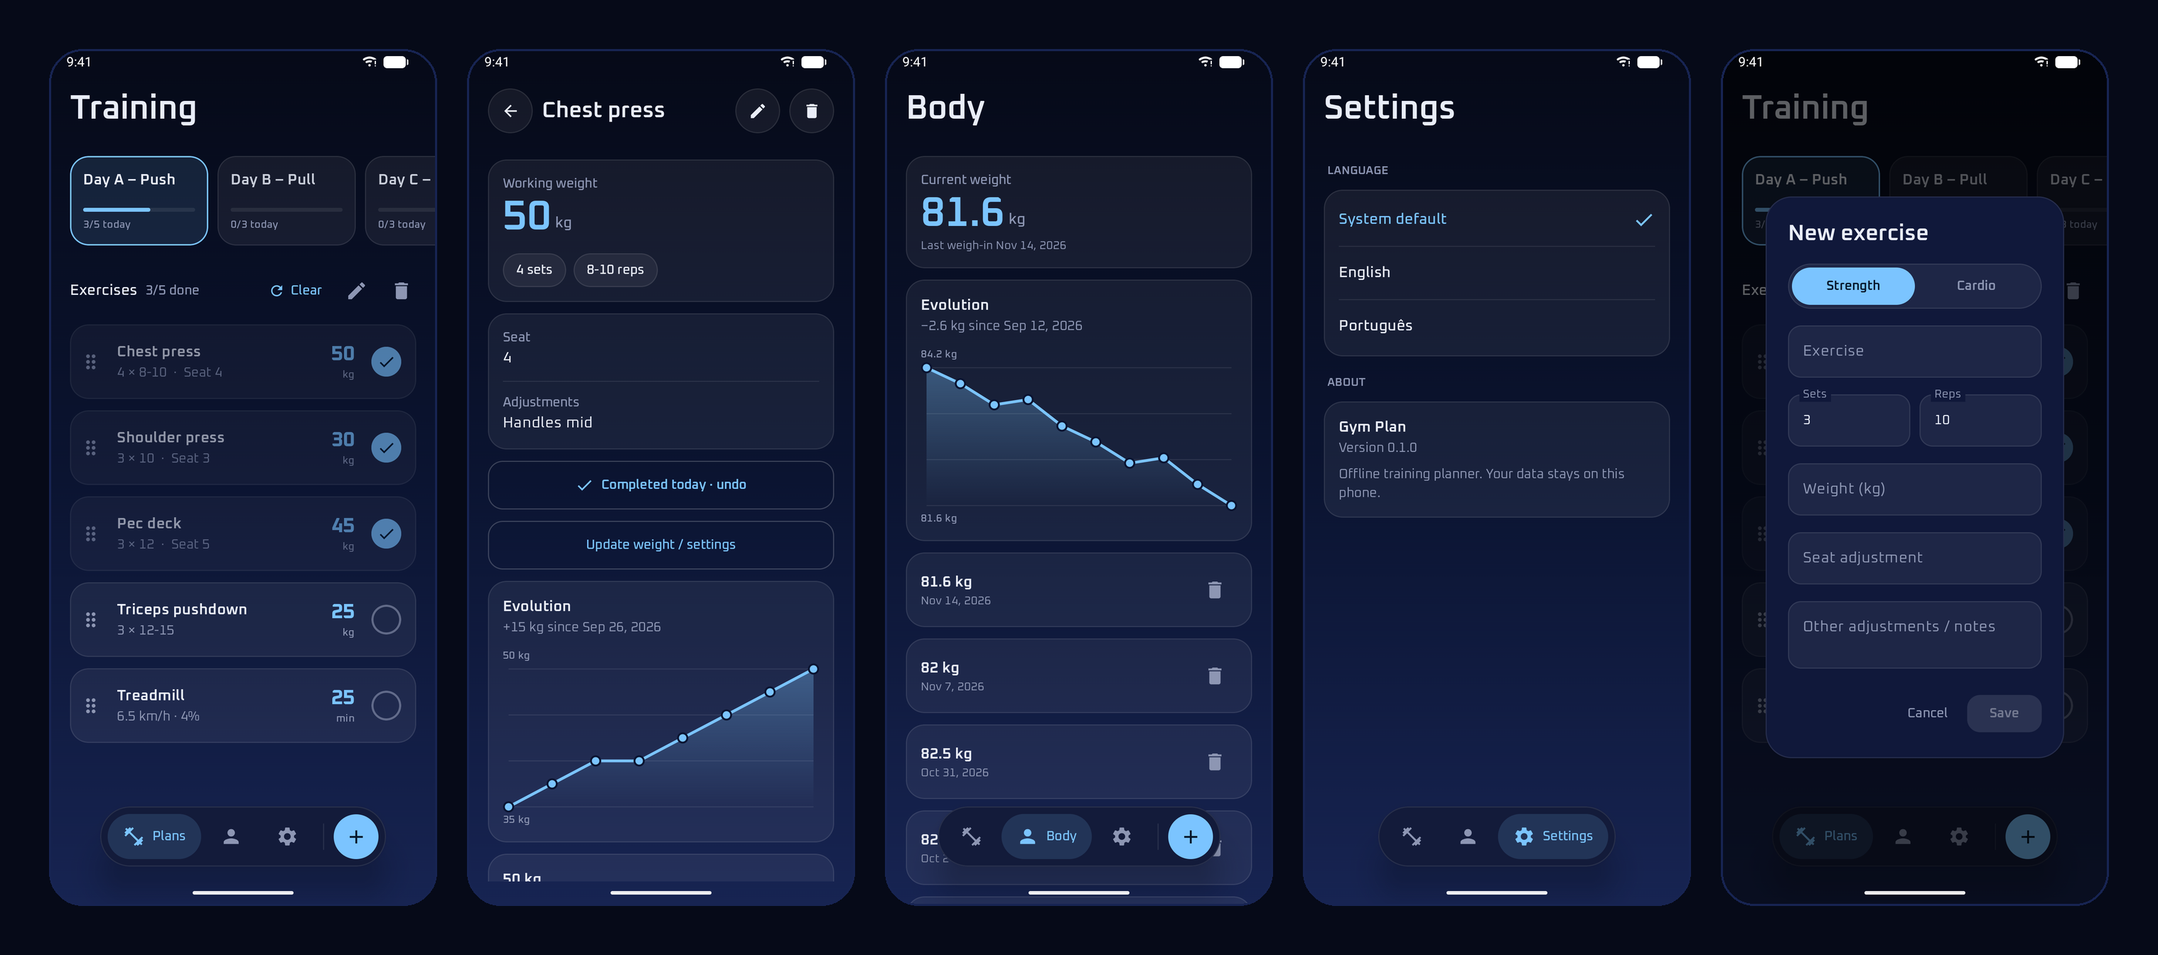
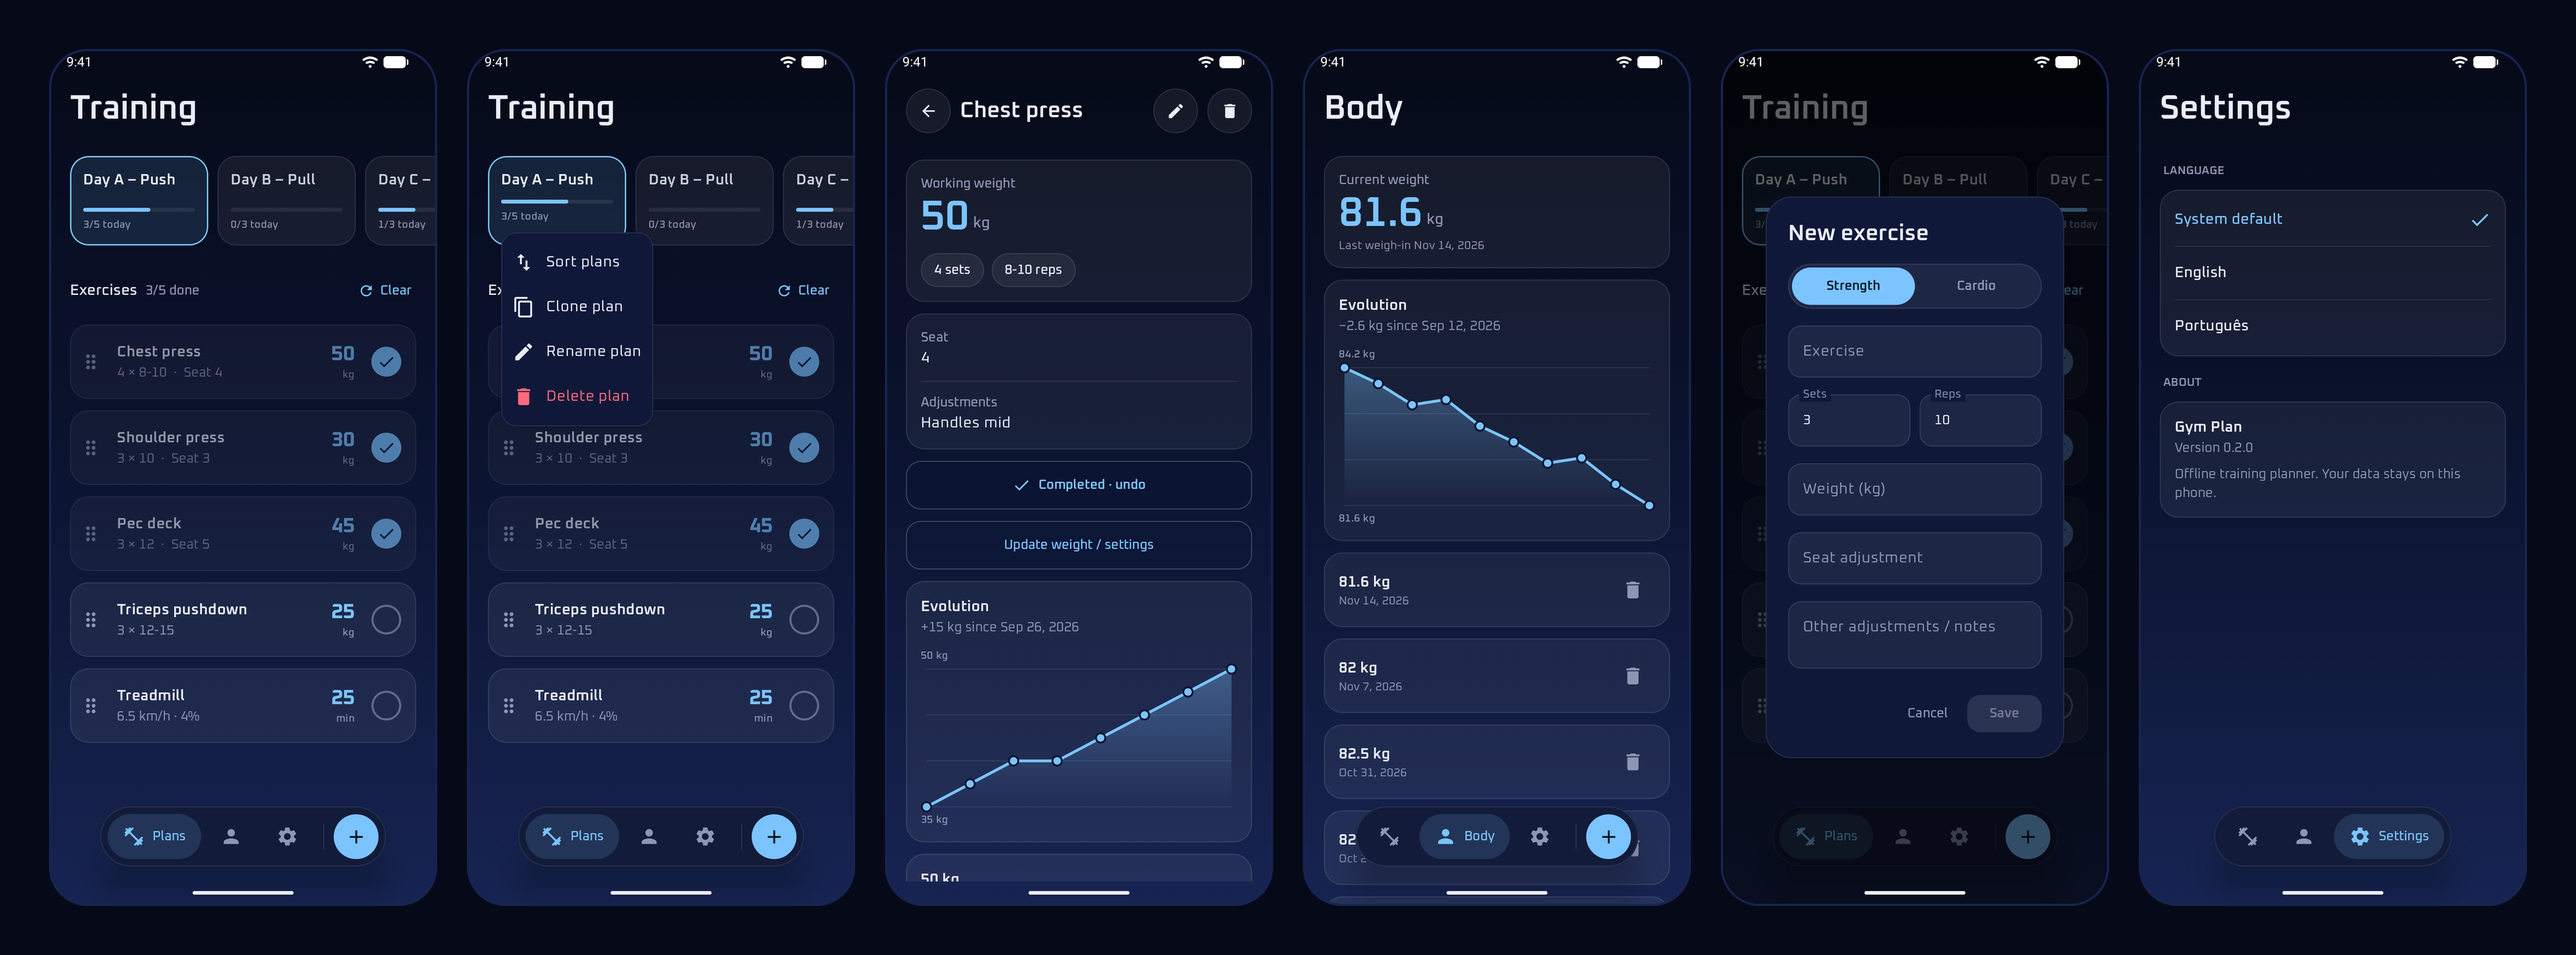
docs: retake app screenshots for 0.2.0
Six screens with sample data, including the plan long-press menu. Overview rebuilt
and README alt text updated.

diff --git a/README.md b/README.md
@@ -9,7 +9,7 @@ It is a single offline app. All data stays in one file in the app's private stor
 no account, no server, no network access. Uninstalling the app or clearing its data deletes
 everything.
 
-![GymPlan screens: plan with today's ticks, exercise detail with weight chart, body weight, settings, new-exercise dialog](docs/screenshots/overview.png)
+![GymPlan screens: plan with today's ticks, plan long-press menu, exercise detail with weight chart, body weight, new-exercise dialog, settings](docs/screenshots/overview.png)
 
 Single screens are in [`docs/screenshots/`](docs/screenshots/) (sample data, no real records).
 
